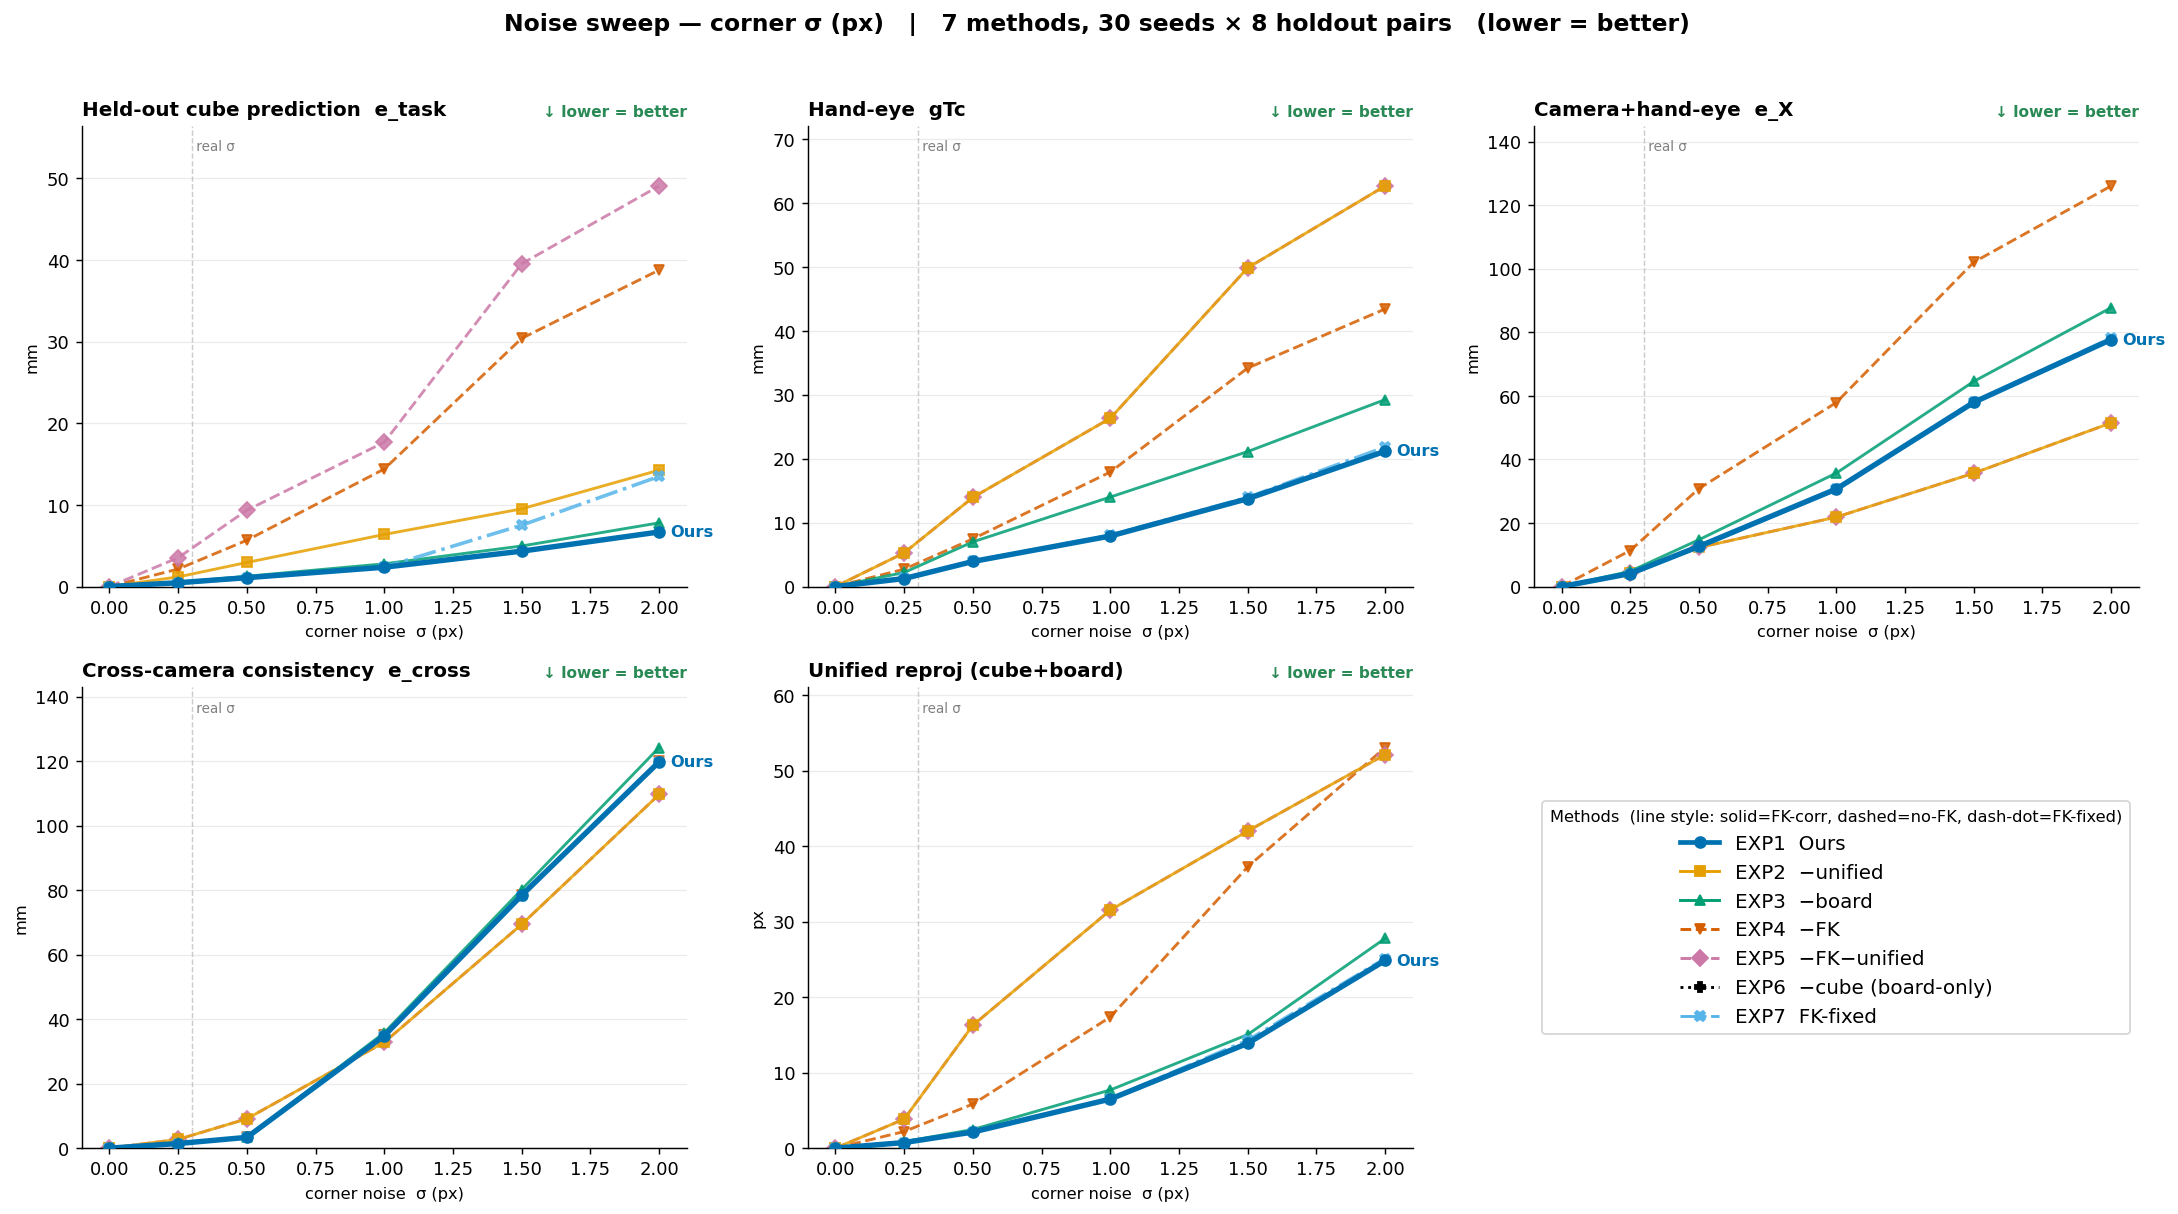
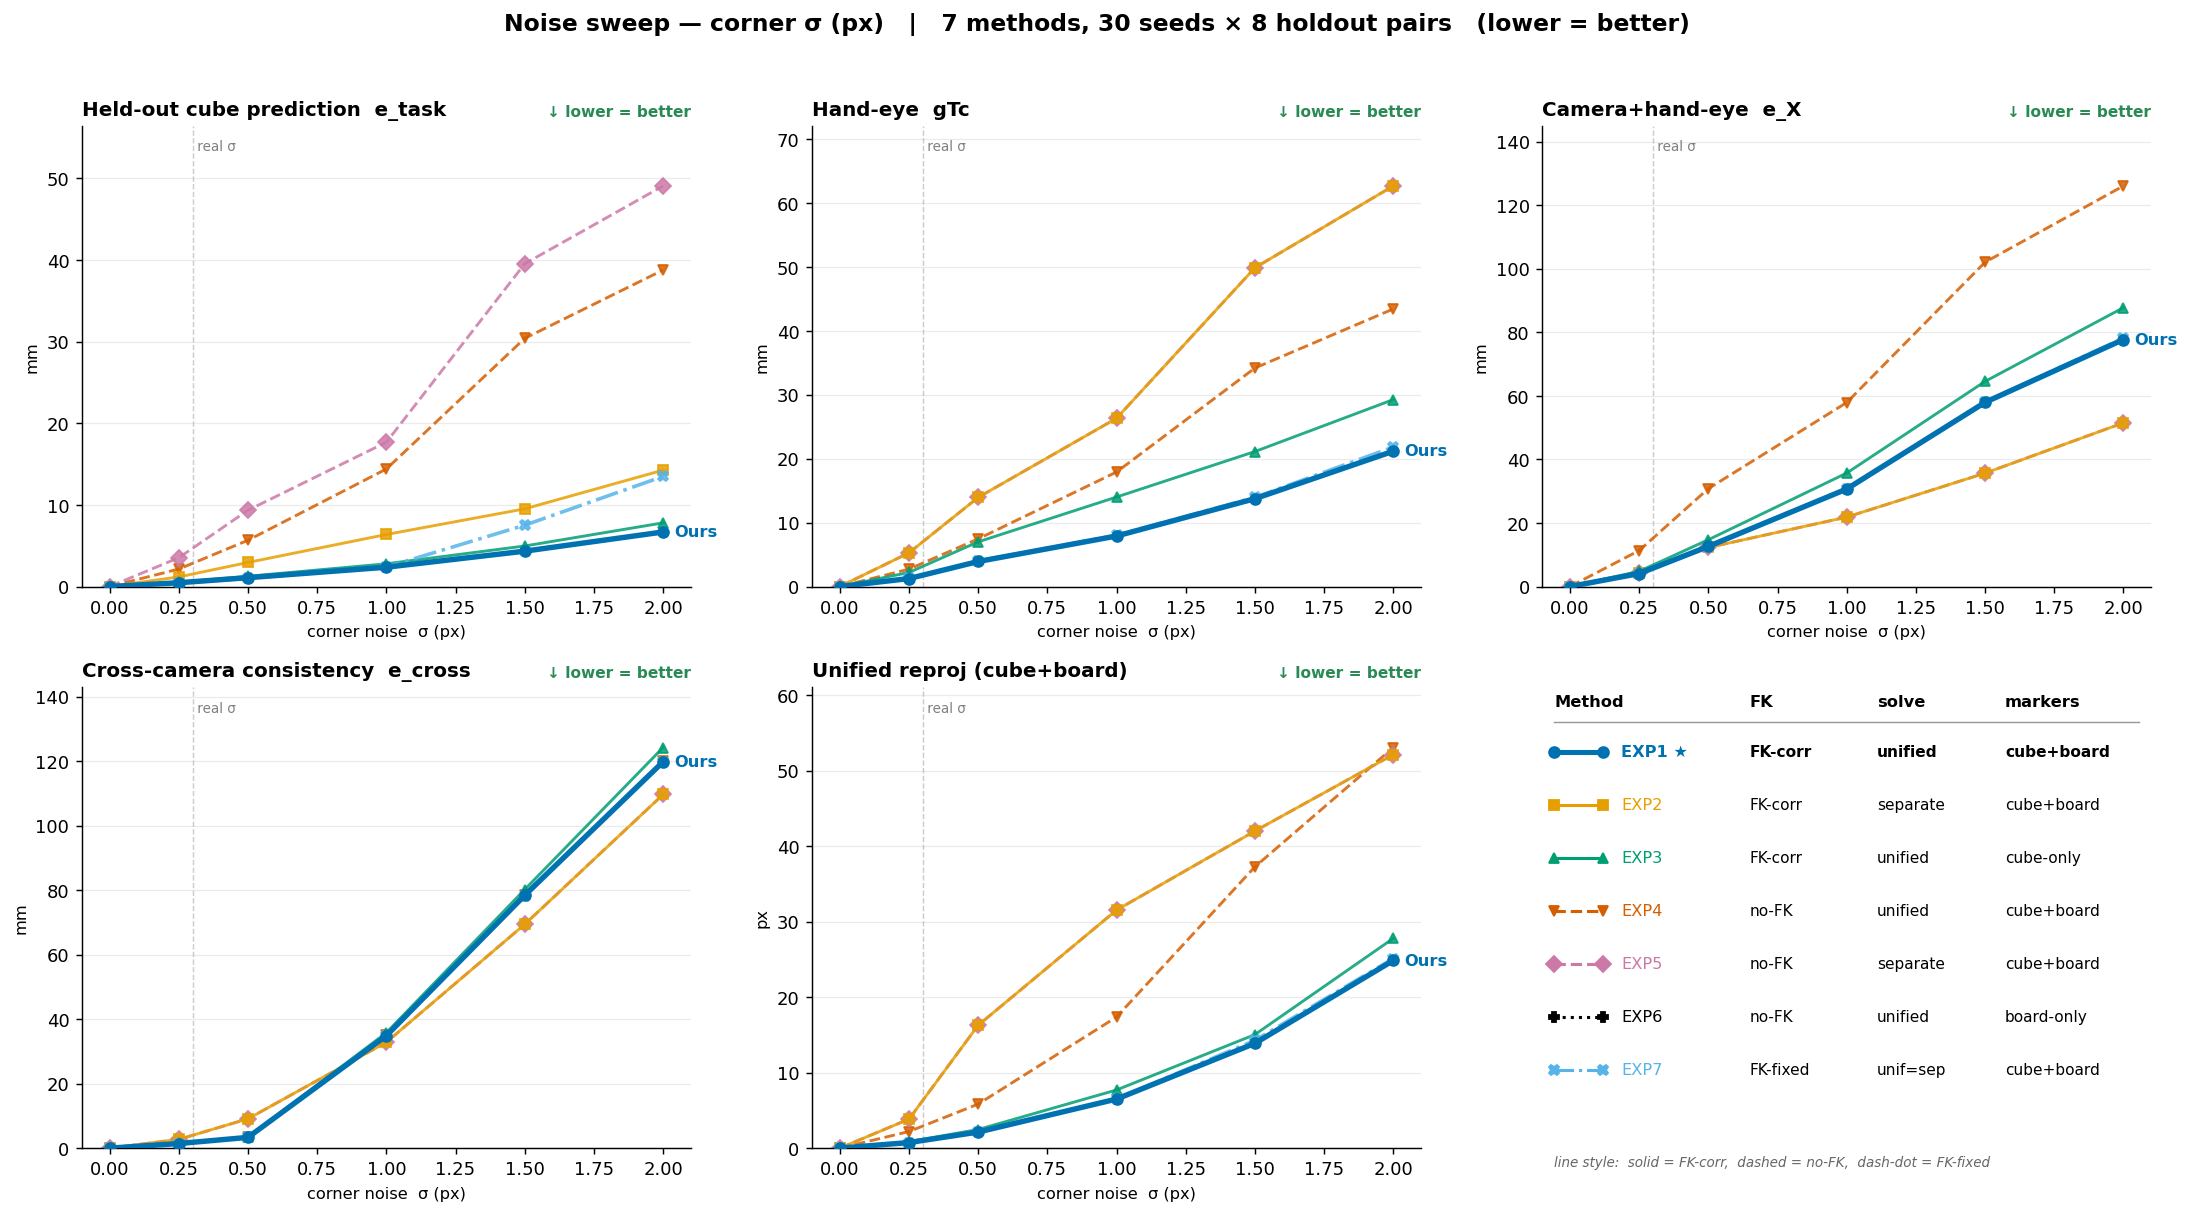
Sweep legend as full method table (FK / solve / markers per method)

diff --git a/Simulation/viz_sweeps.py b/Simulation/viz_sweeps.py
@@ -105,16 +105,45 @@ def main():
                     ha="right", va="bottom", color="#555",
                     bbox=dict(boxstyle="round,pad=0.3", fc="#f4f4f4", ec="#ccc"))
 
-    # 마지막 칸: 범례 + N_reg 요약
-    axes[5].axis("off")
-    handles = [plt.Line2D([0], [0], color=STYLE[n][0], ls=STYLE[n][1],
-                          lw=(2.6 if n == "EXP1" else 1.6), marker=STYLE[n][3], ms=6)
-               for n in ["EXP1", "EXP2", "EXP3", "EXP4", "EXP5", "EXP6", "EXP7"]]
-    labels = [f"{n}  {STYLE[n][4]}" for n in
-              ["EXP1", "EXP2", "EXP3", "EXP4", "EXP5", "EXP6", "EXP7"]]
-    axes[5].legend(handles, labels, loc="center", fontsize=11, frameon=True,
-                   title="Methods  (line style: solid=FK-corr, dashed=no-FK, dash-dot=FK-fixed)",
-                   title_fontsize=9)
+    # 마지막 칸: 방식별 상세 표 (색선 + FK방식 / 통합·독립 / 마커)
+    lax = axes[5]
+    lax.axis("off")
+    # 각 방식의 세 축 정보 (configs.py 와 일치)
+    INFO = {   # name: (FK, solve, markers)
+        "EXP1": ("FK-corr", "unified", "cube+board"),
+        "EXP2": ("FK-corr", "separate", "cube+board"),
+        "EXP3": ("FK-corr", "unified", "cube-only"),
+        "EXP4": ("no-FK",   "unified", "cube+board"),
+        "EXP5": ("no-FK",   "separate", "cube+board"),
+        "EXP6": ("no-FK",   "unified", "board-only"),
+        "EXP7": ("FK-fixed", "unif=sep", "cube+board"),
+    }
+    order = ["EXP1", "EXP2", "EXP3", "EXP4", "EXP5", "EXP6", "EXP7"]
+    # 표 헤더
+    lax.text(0.02, 0.96, "Method", fontsize=9, fontweight="bold", transform=lax.transAxes)
+    lax.text(0.34, 0.96, "FK", fontsize=9, fontweight="bold", transform=lax.transAxes)
+    lax.text(0.55, 0.96, "solve", fontsize=9, fontweight="bold", transform=lax.transAxes)
+    lax.text(0.76, 0.96, "markers", fontsize=9, fontweight="bold", transform=lax.transAxes)
+    lax.plot([0.02, 0.98], [0.925, 0.925], color="#999", lw=0.8, transform=lax.transAxes)
+    y = 0.86
+    for n in order:
+        col, ls, lw, mk, lab = STYLE[n]
+        fk, solve, mkr = INFO[n]
+        bold = (n == "EXP1")
+        # 색선 샘플
+        lax.plot([0.02, 0.10], [y, y], color=col, ls=ls,
+                 lw=(2.8 if bold else 1.7), marker=mk, ms=6,
+                 transform=lax.transAxes, clip_on=False)
+        w = "bold" if bold else "normal"
+        lax.text(0.13, y, f"{n}" + (" ★" if bold else ""), fontsize=9,
+                 fontweight=w, va="center", transform=lax.transAxes, color=col)
+        lax.text(0.34, y, fk, fontsize=8.5, va="center", transform=lax.transAxes, fontweight=w)
+        lax.text(0.55, y, solve, fontsize=8.5, va="center", transform=lax.transAxes, fontweight=w)
+        lax.text(0.76, y, mkr, fontsize=8.5, va="center", transform=lax.transAxes, fontweight=w)
+        y -= 0.115
+    lax.text(0.02, -0.04,
+             "line style:  solid = FK-corr,  dashed = no-FK,  dash-dot = FK-fixed",
+             fontsize=7.5, color="#666", transform=lax.transAxes, style="italic")
 
     fig.suptitle(
         f"Noise sweep — {'corner σ (px)' if axis=='corner' else 'FK error (mm)'}   |   "
